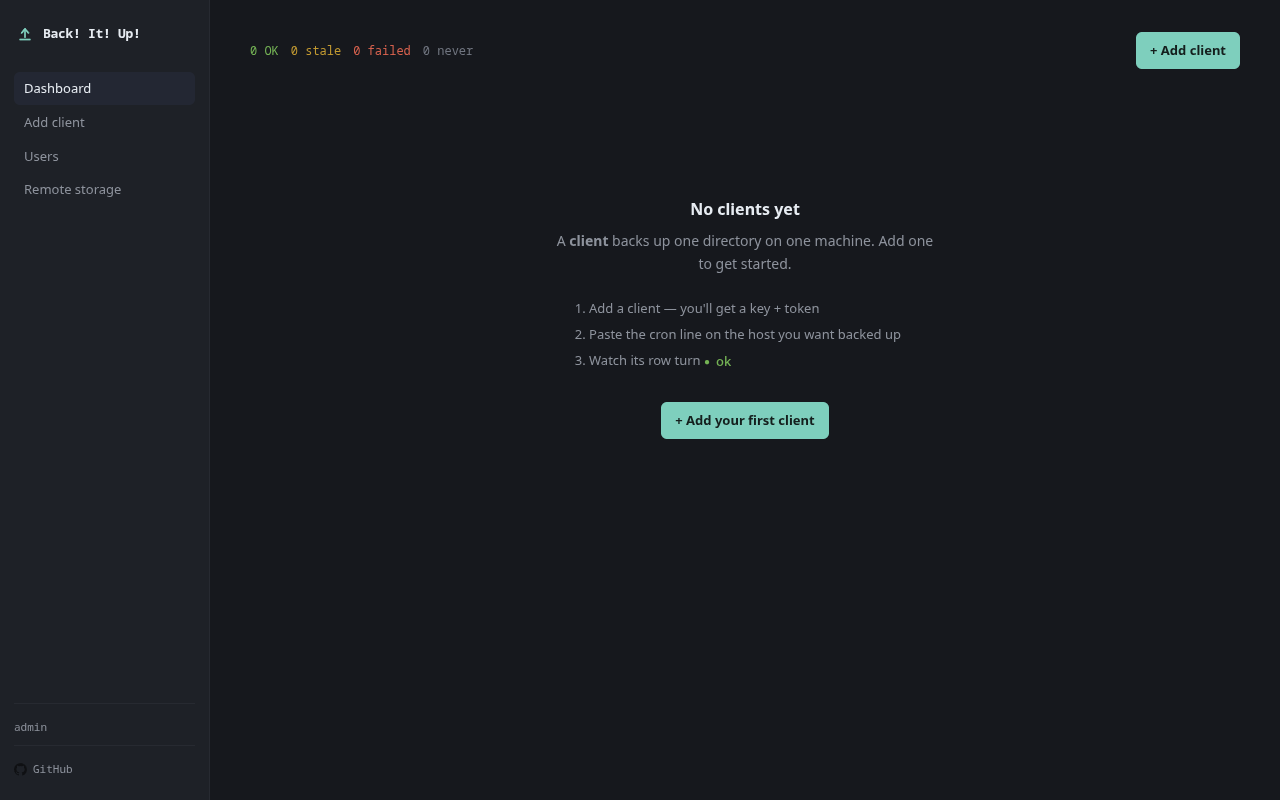
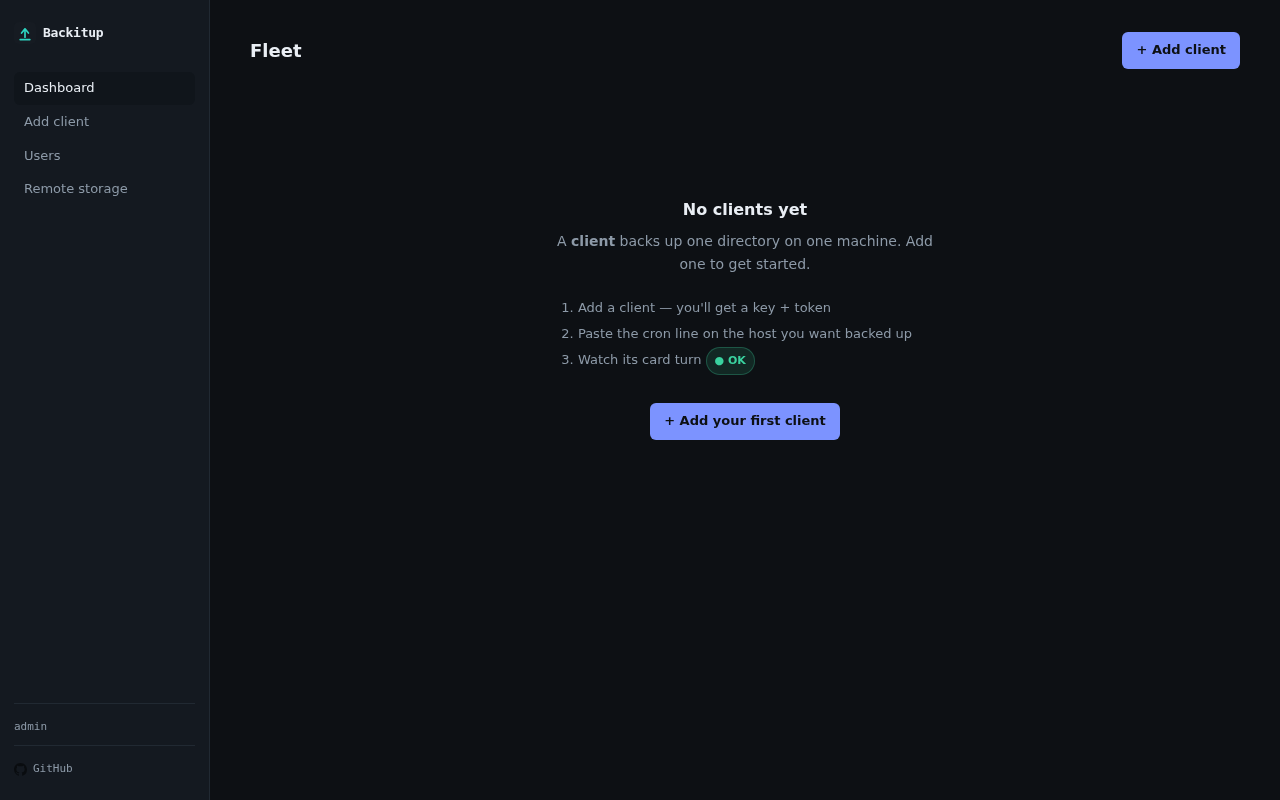
docs(ui): retake the README screenshots on the dark build, add the missing structure tests
The redesign merged without its docs. Screenshots still showed the light
table layout, and the CHANGELOG had no entry for the change at all.

Screenshots retaken from the built binary at c89d6f7 on a seeded instance:
dashboard, dashboard-empty, login, add-client, client-detail, client-created
and remotes. The generated credentials on the created page were replaced with
placeholders in the DOM before each shot; every capture was checked for the
real token and key first and the file re-shot when one was found.

client-rotated, client-rotated-no-hostkey, client-created-no-hostkey and
client-detail-files-offsite-only are NOT retaken: each needs a transient state
the seed could not reach reliably, and a wrong screenshot is worse than an old
one, so their previous versions are left in place. Nothing in the docs links
them.

Tests: the card asked for an aggregate strip on the client page and no test
asserted it, and the nav test only checked the dashboard. TestClientPageCarriesStatsAndTabs
pins the strip, the three stat cards and the tab set, including that the Offsite
tab is conditional on the client having a remote; TestSidebarOnEveryPage checks
the sidebar renders with its links on all five pages.

diff --git a/internal/server/ui_structure_test.go b/internal/server/ui_structure_test.go
@@ -1,0 +1,92 @@
+package server
+
+import (
+	"context"
+	"strings"
+	"testing"
+
+	"github.com/th0rn0/backitup/internal/model"
+)
+
+// TestClientPageCarriesStatsAndTabs pins the structure the dark redesign
+// introduced on a client page: the aggregate strip and stat cards above the tab
+// bar, and the tab set itself.
+//
+// The Offsite tab is conditional on the client actually having a remote. A tab
+// that opens on nothing is worse than no tab: the operator clicks it, sees an
+// empty panel, and cannot tell whether the client has no offsite copies or the
+// page failed to load them.
+func TestClientPageCarriesStatsAndTabs(t *testing.T) {
+	st, ts := testStack(t)
+	c := loggedInClient(t, st, ts)
+	ctx := context.Background()
+	if _, err := st.CreateClient(ctx, model.Client{
+		Name: "structure", Mode: model.ModeRsync, RetentionDays: 7, Enabled: true,
+	}); err != nil {
+		t.Fatalf("create client: %v", err)
+	}
+
+	body := getPage(t, c, ts.URL+"/clients/structure")
+
+	if !strings.Contains(body, `class="aggr-strip"`) {
+		t.Error("client page has no aggregate strip")
+	}
+	if n := strings.Count(body, `class="client-stat"`); n < 3 {
+		t.Errorf("client page renders %d stat cards, want at least 3 (on disk, snapshots, newest)", n)
+	}
+	for _, tab := range []string{"snapshots", "runs", "settings"} {
+		if !strings.Contains(body, `data-tab-btn="`+tab+`"`) {
+			t.Errorf("client page is missing the %s tab", tab)
+		}
+	}
+	if strings.Contains(body, `data-tab-btn="offsite"`) {
+		t.Error("client page offers an Offsite tab for a client with no remote — it can only open on an empty panel")
+	}
+
+	// With a remote the tab belongs on the page. Create a second client with a
+	// remote rather than mutating the first: the tab's condition is the stored
+	// field, and a client created with a remote is the ordinary path.
+	if _, err := st.CreateClient(ctx, model.Client{
+		Name: "structure-offsite", Mode: model.ModeRsync, RetentionDays: 7, Enabled: true,
+		OffsiteRemote: "s3",
+	}); err != nil {
+		t.Fatalf("create client with a remote: %v", err)
+	}
+	body = getPage(t, c, ts.URL+"/clients/structure-offsite")
+	if !strings.Contains(body, `data-tab-btn="offsite"`) {
+		t.Error("client page hides the Offsite tab even though the client has a remote")
+	}
+}
+
+// TestSidebarOnEveryPage asserts the sidebar renders with its links on every
+// page, not just the dashboard. A nav that exists only where you already are is
+// the shape of a dead nav report.
+//
+// This is a structure assertion: it cannot prove the links are clickable, which
+// needs a browser. It exists to catch the case where a template stops including
+// the sidebar at all — the earlier single-page version of this check would have
+// missed that on four of the five pages.
+func TestSidebarOnEveryPage(t *testing.T) {
+	st, ts := testStack(t)
+	c := loggedInClient(t, st, ts)
+	ctx := context.Background()
+	if _, err := st.CreateClient(ctx, model.Client{
+		Name: "sidebar", Mode: model.ModeRsync, RetentionDays: 7, Enabled: true,
+	}); err != nil {
+		t.Fatalf("create client: %v", err)
+	}
+
+	pages := []string{"/", "/clients/sidebar", "/clients/new", "/users", "/settings/remotes"}
+	for _, path := range pages {
+		body := getPage(t, c, ts.URL+path)
+		if !strings.Contains(body, `class="sidebar"`) {
+			t.Errorf("%s: no sidebar", path)
+			continue
+		}
+		for _, href := range []string{`href="/"`, `href="/clients/new"`, `href="/users"`, `href="/settings/remotes"`} {
+			if !strings.Contains(body, href) {
+				t.Errorf("%s: sidebar missing %s", path, href)
+			}
+		}
+	}
+}

diff --git a/CHANGELOG.md b/CHANGELOG.md
@@ -19,6 +19,8 @@ Format follows [Keep a Changelog](https://keepachangelog.com/en/1.0.0/).
 
 ### Changed
 
+- **The UI is dark, status-first cards, and honest about what it does not know.** Every page moved from a light table layout to a dark one: `#0d1014` background, cards one step above it (`#141920`), borders carrying the structure instead of shadows, and colour reserved for state (ok `#3ad29f`, attention `#e8b64b`, needs-you `#ff6b6b`, in-progress `#7c93ff`). The fleet becomes a card per client showing state, last backup, allocated disk and offsite state, above an aggregate strip (clients, on disk, offsite, needs you); the client page keeps its tab bar and gains the same strip. The sparkline reads stored run history and **renders nothing below three runs**, because a flat line drawn from two points reads as stability the tool has not observed. Two things are pinned by tests rather than convention: no light-theme token survives anywhere in rendered output, and every text token clears its contrast floor, with the ratio values parsed out of `app.css` instead of hard-coded. That second change is the point: a hard-coded contrast test passed while `--text-dimmer`, used for the 10.5px uppercase field labels, sat at **3.77:1** against a 4.5:1 requirement; it is now `#75828f` at 4.85:1 and body text measures 16.34:1. A reported dead sidebar nav could not be reproduced on this build: every link is hit-testable and navigates, from the dashboard and from a client page, so the report is recorded as unreproduced rather than "fixed". The README screenshots were retaken from this build.
+
 - **The hot store's two server-owned directories are `0750`, and an existing store is healed to that at startup — so an account in the backup user's group can read backups without root.** `<clientDir>` and `<clientDir>/snapshots` were created `0700`, which is what stopped a local account traversing into the store; both are now `ClientDirMode` (`0750`), owned by the app's uid/gid (10001 in the shipped image), and the decision behind it is that **the group is the control**: anyone in gid 10001 on the backup host can read every client's backups, with no per-client permission state. That cost is documented in the README's security model, the directory-permissions section and the client page rather than left implicit. The change alone would have done nothing for an existing install — `MkdirAll` never touches the mode of a directory that already exists — so `ReconcileClientDirModes` widens those two directories to `0750` when they are **owned by the server's own uid** and currently more restrictive, and runs at startup, after a client is created, and when a client is loaded for a run. A directory owned by **another uid** (the bind-mount or root-owned-named-volume misconfiguration) is left exactly as it is, with one log line naming the client and the owner: silently `chmod`-ing a tree somebody else owns is worse than a legible failure. The app-data directory — the SQLite database and every token hash in it — stays `0700` and is not part of this. Deliberately unchanged: the offsite staging directory (`internal/mode/rsync/server.go` `stagingDirFor`) stays `0700`, because it holds `os.CreateTemp` archives at `0600` that are removed after upload and widening it would gain nothing; everything *inside* a snapshot is still written by the rsync receiver, which copies the source's modes unless the client sets `group_readable`. Tests: both directories `0750` and owned by the server's own uid/gid after creating an rsync client, the single directory of a `targz` client likewise, the app-data directory still `0700`, a `0700` store written by the previous build at `0750` after one reconcile pass with a log line naming the client, a foreign-owned directory left alone with exactly one line, and a directory that is already group-traversable not narrowed.
 
 - **The rsync hot tier can now capture what `-a` leaves behind, per client: sparse holes, in-tree hardlinks, ACLs and xattrs.** Thorno asked for "ALL files", and an audit of the rsync path at `86de926` measured four things lost on every run with the client's own flags: a source tree of 1.9 MB on disk with a 1 GiB `truncate`d hole became a **956 MB** snapshot (no `-S`); an in-tree hardlink pair landed as two inodes, storing the data twice (no `-H`); ACLs and xattrs were dropped entirely (no `-A`/`-X`); and ownership arrived as the receiver's uid 10001 with exit status 0 and no warning. `clients` gains `preserve_sparse`, `preserve_hardlinks`, `preserve_acls` and `preserve_xattrs` (migration v5, all defaulting to 0 so an upgraded database keeps the invocation it was already sending), surfaced as four checkboxes on the create form and in **Settings → What the snapshot captures** with a one-line cost note each. Sparse is **on** for new clients — argued in the PR as a straight win: it changes only what the snapshot holds, a qcow2 image that is sparse on the client must stay sparse on the server or the hot tier costs its apparent size, and it measured 1.0 GB → 3.0 MB on the same tree — while the other three stay off (`-H` costs a pass over the file list, `-A`/`-X` are metadata nobody asked for by default). A client with every setting off sends the byte-identical invocation `86de926` did. **Verified against the real jail, not a reading of rrsync's table:** the client's rsync sends `-lHogDtpAXrSe.iLsfxCIvu` (measured through a logging forced command), all four letters are in rrsync 3.5.0's `short_no_arg` allowlist (the recv image now ships rsync/rrsync 3.5.0 on Debian trixie), and a real transfer through the jail returns 0 with holes preserved (2,105,344 bytes on disk for a 1,076,887,573-byte tree), one inode for the hardlink pair, and `system.posix_acl_access` plus `user.*` intact — including across a `--link-dest` incremental run and for a file modified between runs, which is the EPERM case the ticket worried about (the receiver owns what it creates, so it can set the ACL; measured, not assumed). **Refusal is legible:** a receiver that refuses a flag kills the transfer before a byte moves and rsync reports only `connection unexpectedly closed … protocol data stream (code 12)`, so the run now parses the receiver's own refusal and names the setting — `the receiving side refused -A (POSIX ACLs): turn off the "preserve_acls" setting for this client — it said "option -A has been disabled on this server."` — in the error and the run log (and therefore in the incomplete marker's reason). **Ownership is documented, not silently dropped:** the receiver is unprivileged by design, `--fake-super` was measured to work through the jail (`user.rsync.%stat` = `100664 0,0 1000:1000`) but rejected for now because it changes the shape of every snapshot and makes every restore depend on remembering `--fake-super`, and the README plus the client page say that the `rsync` hot tier does not preserve uid/gid while `tar.gz` archives do. Sockets, FIFOs and device nodes stay out of scope on purpose (`rrsync` adds `--drop-D` for any jail other than `/`) and are documented as correct. Tests: the argv for every combination including all-off, sparse measured on disk for both settings (134,225,920 bytes → 16,384 bytes for a 64 MiB hole), inode identity with `-H` on and off, ACL/xattr preserved with the settings on and absent with them off, a refusing receiver producing an error and log naming the flag, the store round trip, `preserve_sparse` form → `GET /api/v1/config` → client decode, the migration leaving an existing client all-off, and the create/settings pages rendering the boxes with sparse pre-ticked.
